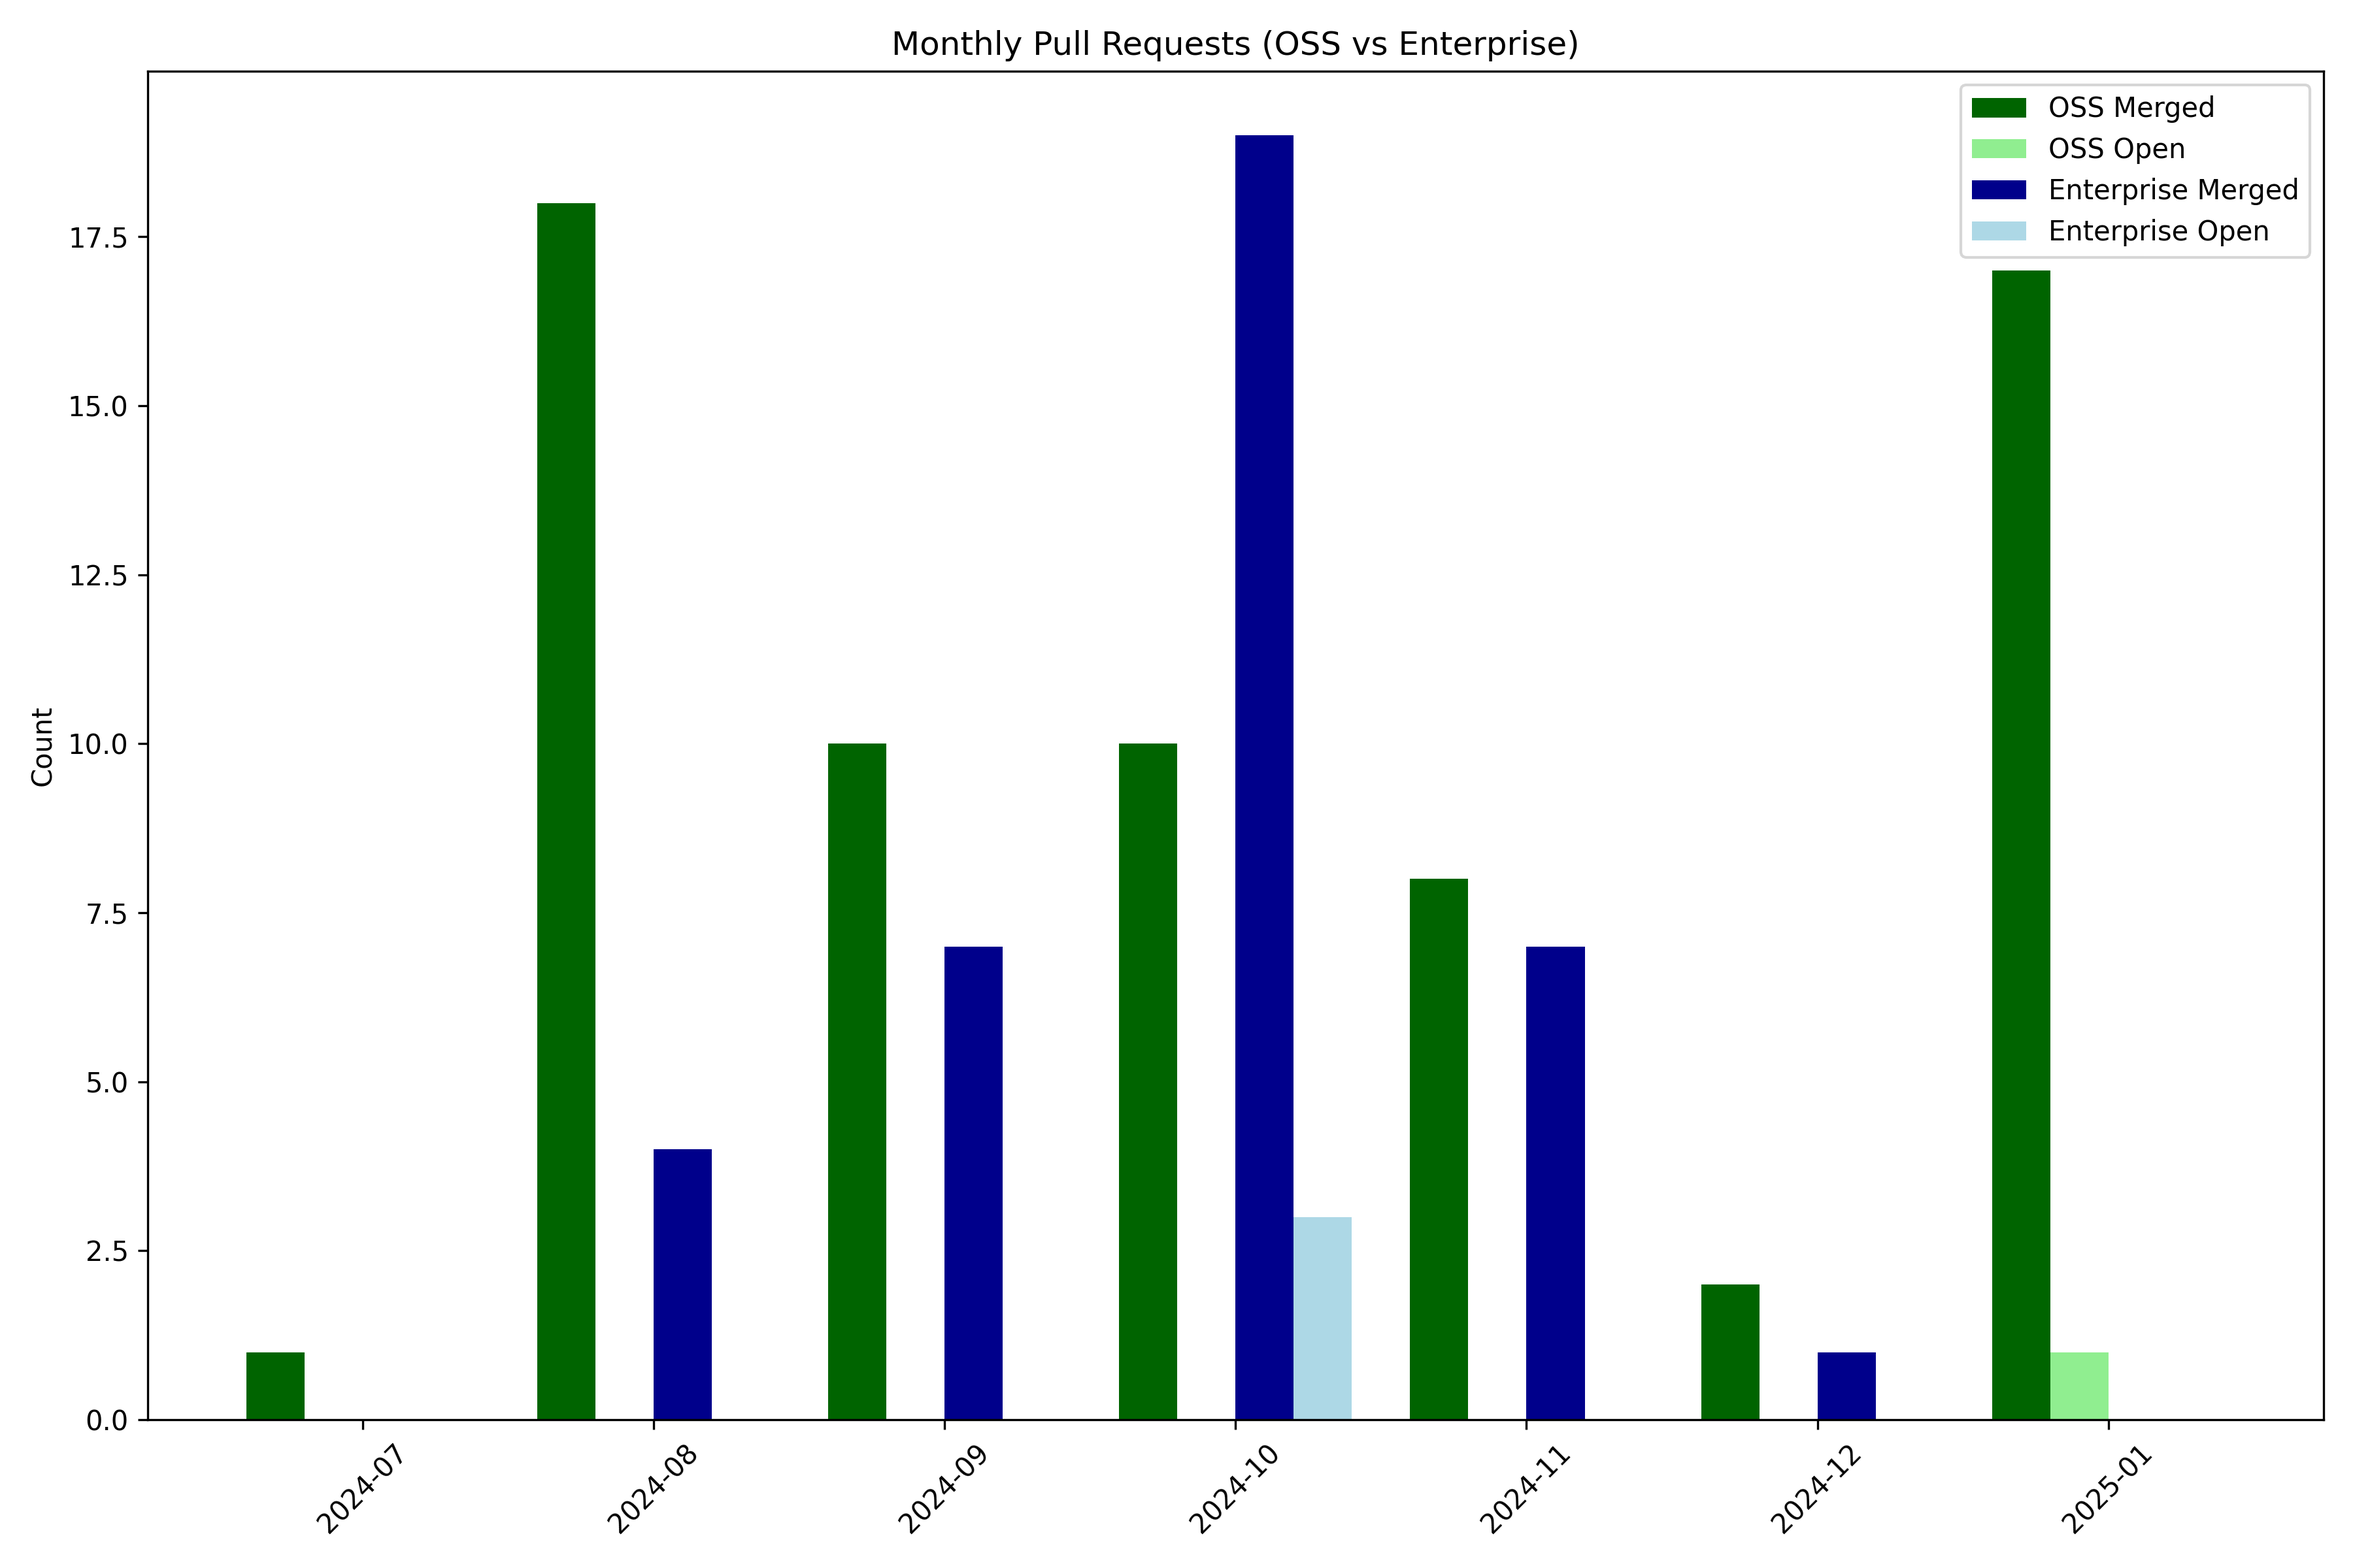
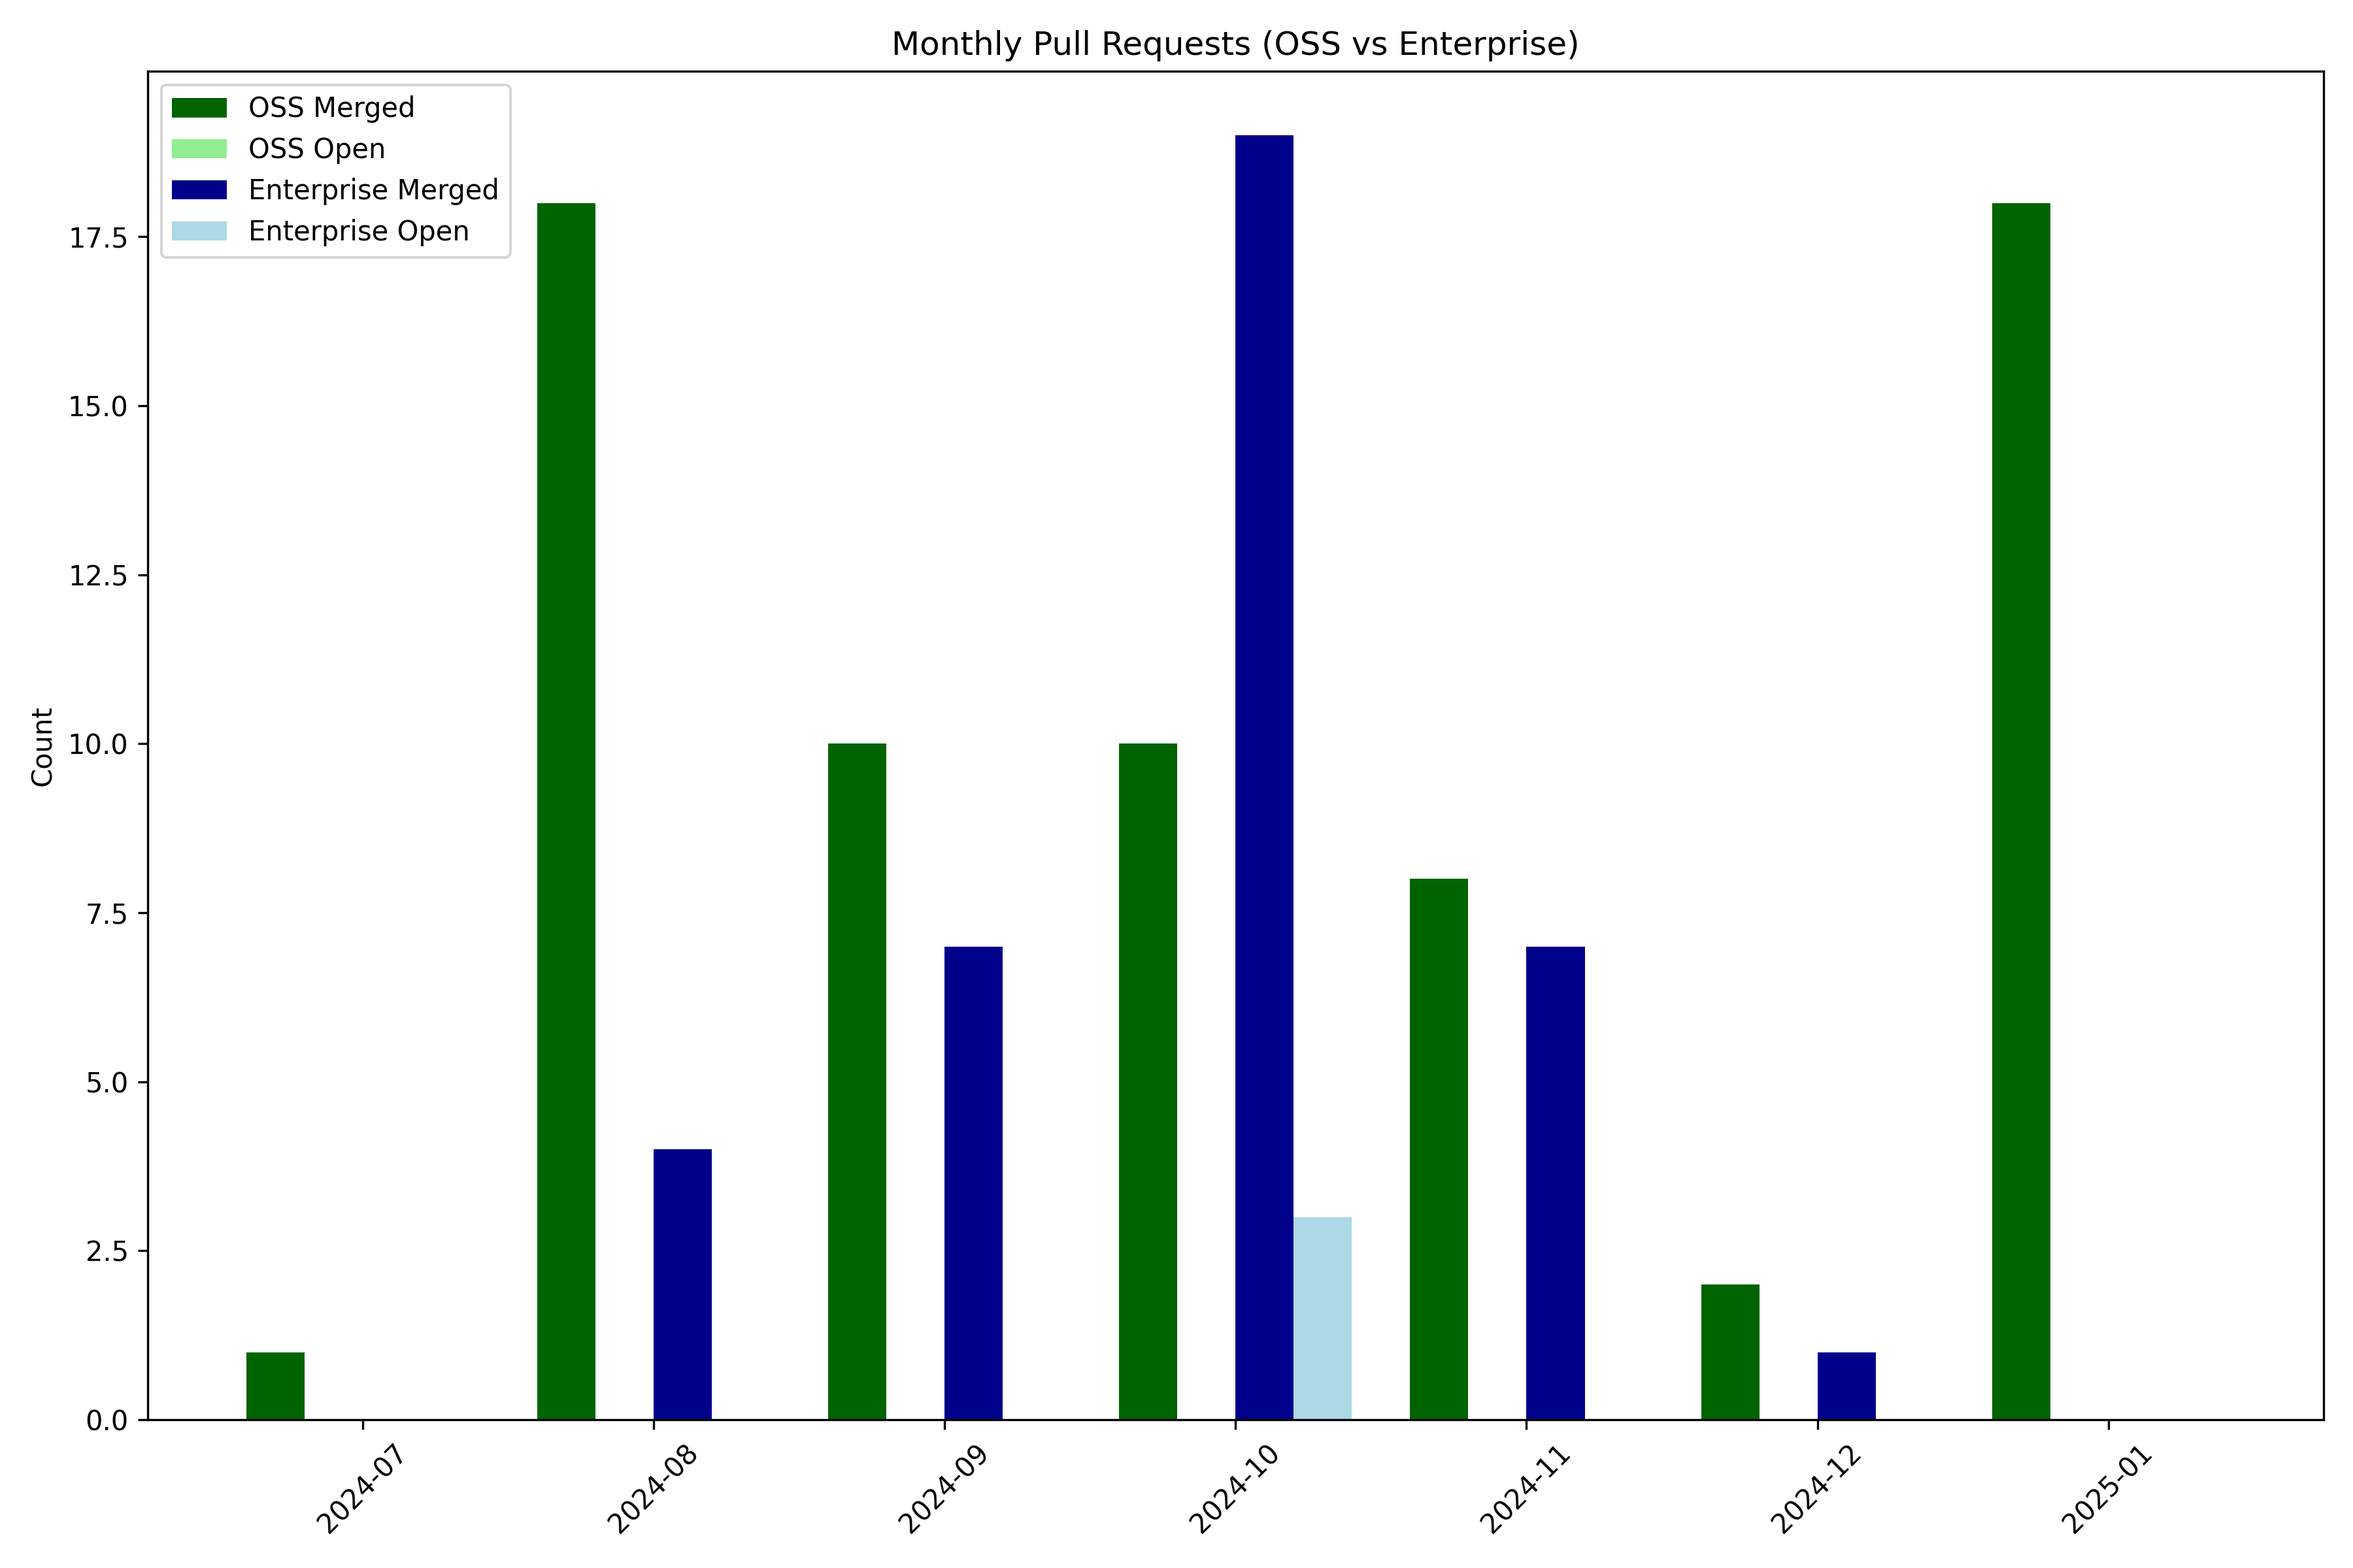
docs: 29/01/2025

Changed region(s): [[0.0622, 0.0625, 0.2178, 0.1562], [0.84, 0.0625, 0.9644, 0.1875], [0.8711, 0.8438, 0.9022, 0.9062]]

diff --git a/README.md b/README.md
@@ -21,10 +21,7 @@
 - [#240](https://github.com/daytonaio/docs/pull/240): docs: update index items (merged at: 2025-01-27T08:09:43Z)
 - [#239](https://github.com/daytonaio/docs/pull/239): style: update docker icon (merged at: 2025-01-27T08:10:02Z)
 - [#238](https://github.com/daytonaio/docs/pull/238): docs: fix sdk index (merged at: 2025-01-27T08:10:25Z)
-
-### OSS Open Pull Requests
-
-- [#242](https://github.com/daytonaio/docs/pull/242): docs: update getting started section (created at: 2025-01-24T23:00:38Z)
+- [#242](https://github.com/daytonaio/docs/pull/242): docs: update getting started section (merged at: 2025-01-28T07:56:18Z)
 
 ## 2024-12
 
